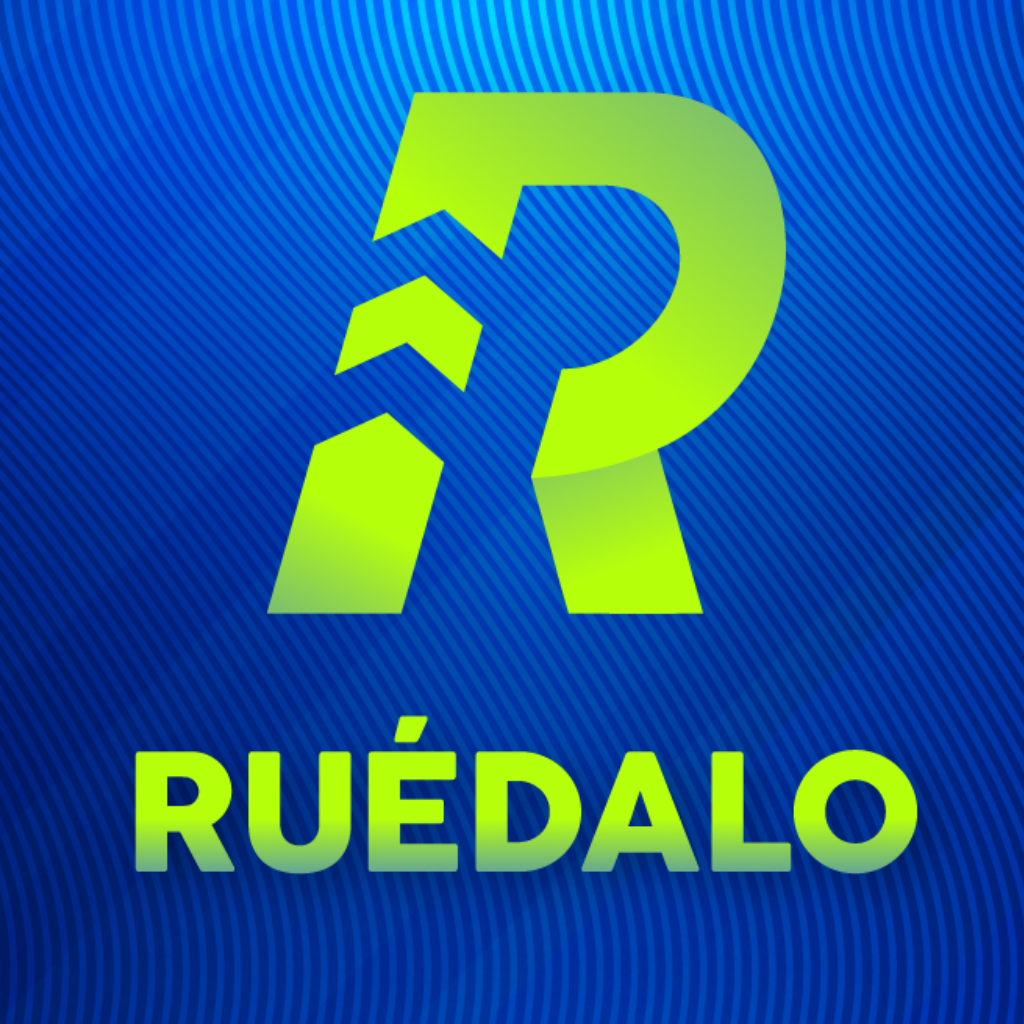
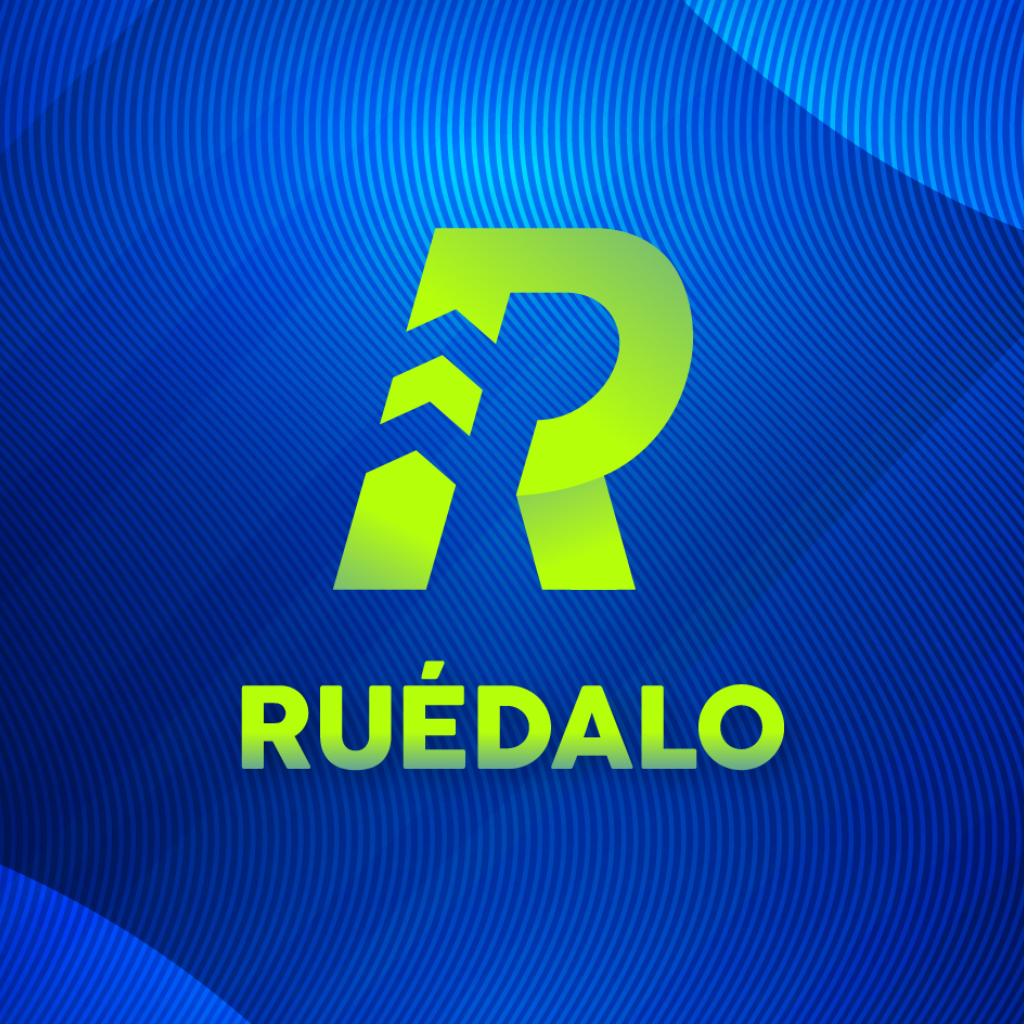
correcion de icono

diff --git a/src/screens/Form/SignIn.js b/src/screens/Form/SignIn.js
@@ -5,6 +5,7 @@ import {
   TouchableOpacity,
   TextInput,
   TouchableHighlight,
+  Image,
 } from "react-native";
 import React, { useEffect, useState } from "react";
 import { useNavigation } from "@react-navigation/native";
@@ -25,8 +26,8 @@ import * as Google from "expo-auth-session/providers/google";
 import { Formik } from "formik";
 import * as Yup from "yup";
 import { Ionicons } from "@expo/vector-icons";
-import { Entypo } from '@expo/vector-icons';
-
+import { Entypo } from "@expo/vector-icons";
+import Logo from '../../assets/icons/logo.png'
 WebBrowser.maybeCompleteAuthSession();
 
 export default function SignIn() {
@@ -48,7 +49,7 @@ export default function SignIn() {
       headers: { Authorization: `Bearer ${accessToken}` },
     });
     const useInfo = await response.json();
-    setLoadingGoogle(false)
+    setLoadingGoogle(false);
     signWithGoogleFn(useInfo, setLoadingGoogle);
     // navigation.navigate("MainLayout");
   }
@@ -69,7 +70,7 @@ export default function SignIn() {
     if (response?.type === "success") {
       setAccessToken(response.authentication.accessToken);
       accessToken && fetchUserInfo();
-    }else{
+    } else {
       setLoadingGoogle(false);
     }
   }, [response, accessToken]);
@@ -78,9 +79,9 @@ export default function SignIn() {
     <SafeAreaView style={{ ...SAFEAREAVIEW.AndroidSafeArea }}>
       <LoadingFullScreen isLoading={loadingGoogle} />
       <View className="flex-row-reverse items-center px-4 py-1">
-      <TouchableHighlight onPress={() => navigation.navigate("OnBoarding")} >
-      <Entypo name="info-with-circle" size={24} color="#2d2d2d" />
-      </TouchableHighlight>
+        <TouchableHighlight onPress={() => navigation.navigate("OnBoarding")}>
+          <Entypo name="info-with-circle" size={24} color="#2d2d2d" />
+        </TouchableHighlight>
       </View>
       <KeyboardAwareScrollView
         showsVerticalScrollIndicator={false}
@@ -110,7 +111,12 @@ export default function SignIn() {
             isValid,
           }) => (
             <>
-              <View style={{ justifyContent: "center", marginBottom: 20 }}>
+
+              <View style={{ justifyContent: "center", marginBottom: 20, alignItems: "center" }}>
+                <Image
+                source={Logo}
+                className="w-16 h-16 mb-3"
+                />
                 <Text style={{ fontSize: 18 }}>Inicio de sesión</Text>
               </View>
 
@@ -162,7 +168,6 @@ export default function SignIn() {
                 </View>
               </View>
 
-
               {/* ======================= */}
               <View
                 style={{
@@ -204,7 +209,7 @@ export default function SignIn() {
           className="flex-row items-center space-x-3 w-full h-[50px] rounded-lg justify-around bg-gray-600 mt-5"
           onPress={() => {
             setLoadingGoogle(true);
-            promptAsync(__DEV__ ? { useProxy: true } : {})
+            promptAsync(__DEV__ ? { useProxy: true } : {});
           }}
           disabled={loadingGoogle || loading}
         >

diff --git a/src/context/AuthContext.js b/src/context/AuthContext.js
@@ -52,6 +52,8 @@ const AuthProvider = ({ children }) => {
           },
         } = response;
 
+        // alert("Acá llego una notificacion");
+
         if (data.objective === "order") {
           navigate("Order", { id: data.id_objective });
         }
